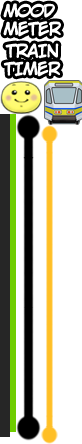
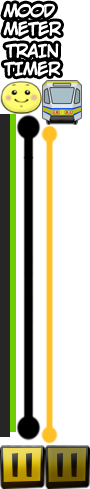
printf("elo");
Updated timer sprites.
Updating about page with our pictures.

diff --git a/bad-vibes-game/src/com/mobi/badvibes/AboutScreen.java b/bad-vibes-game/src/com/mobi/badvibes/AboutScreen.java
@@ -58,6 +58,8 @@ public class AboutScreen extends BadVibesScreen
 
         BVTexture                   aboutSprite         = new BVTexture(Gdx.files.internal("data/about/about.png"));
         
+        BVTexture                   avatarSprite        = new BVTexture(Gdx.files.internal("data/about/member.png"));
+        
         BVTextureRegion             aboutUs             = new BVTextureRegion(aboutSprite, new Rectangle(  0,   0,
                                                                                                          221,  68));
         
@@ -76,6 +78,22 @@ public class AboutScreen extends BadVibesScreen
                                                                                                           83,  45));
         BVTextureRegion             backPress           = new BVTextureRegion(aboutSprite, new Rectangle( 83, 309,
                                                                                                           83,  45));
+        
+        BVTextureRegion             avatarBervyn        = new BVTextureRegion(avatarSprite, new Rectangle(  0,   0,
+                                                                                                           54,  90));
+
+        BVTextureRegion             avatarIelle         = new BVTextureRegion(avatarSprite, new Rectangle( 54,   0,
+                                                                                                           54,  90));
+
+        BVTextureRegion             avatarMarit         = new BVTextureRegion(avatarSprite, new Rectangle(108,   0,
+                                                                                                           54,  90));
+
+        BVTextureRegion             avatarMichael       = new BVTextureRegion(avatarSprite, new Rectangle(162,   0,
+                                                                                                           54,  90));
+
+        BVTextureRegion             avatarDarren        = new BVTextureRegion(avatarSprite, new Rectangle(216,   0,
+                                                                                                           54,  90));
+        
         
         Image                       aboutUsImage        = new Image(aboutUs);
         
@@ -119,6 +137,43 @@ public class AboutScreen extends BadVibesScreen
 
         aboutScreenStage.addActor(nameDarrenImage);
 
+
+        Image                       avatBervynImage     = new Image(nameBervyn);
+
+                                    avatBervynImage.setPosition(GameUtil.convertToScaledFactor( 88),
+                                                                GameUtil.convertToScaledFactor(115));
+
+        aboutScreenStage.addActor(avatBervynImage);
+                                    
+        Image                       avatIelleImage      = new Image(nameIelle);
+
+                                    avatIelleImage.setPosition(GameUtil.convertToScaledFactor(306),
+                                                               GameUtil.convertToScaledFactor(310));
+
+        aboutScreenStage.addActor(avatIelleImage);
+                                                                
+        Image                       avatMaritImage      = new Image(nameMarit);
+
+                                    avatMaritImage.setPosition(GameUtil.convertToScaledFactor(564),
+                                                               GameUtil.convertToScaledFactor(115));
+
+        aboutScreenStage.addActor(avatMaritImage);
+
+        Image                       avatMichaelImage    = new Image(nameMichael);
+        
+                                    avatMichaelImage.setPosition(GameUtil.convertToScaledFactor(142),
+                                                                 GameUtil.convertToScaledFactor(260));
+        
+        aboutScreenStage.addActor(avatMichaelImage);
+
+        Image                       avatDarrenImage     = new Image(nameDarren);
+
+                                    avatDarrenImage.setPosition(GameUtil.convertToScaledFactor(535),
+                                                                GameUtil.convertToScaledFactor(260));
+
+        aboutScreenStage.addActor(avatDarrenImage);
+
+        
         ButtonStyle                 backStyle           = new ButtonStyle();
         
                                     backStyle.up        = new TextureRegionDrawable(backUp);
